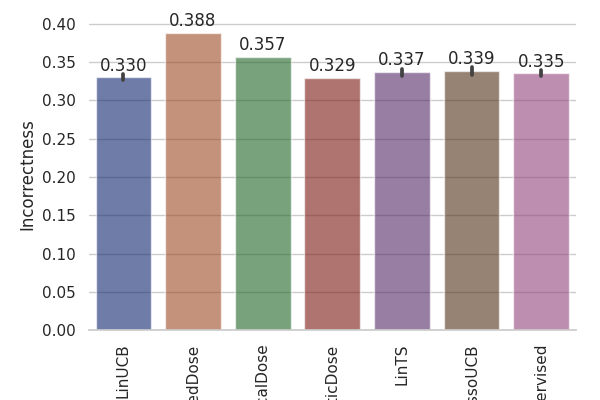
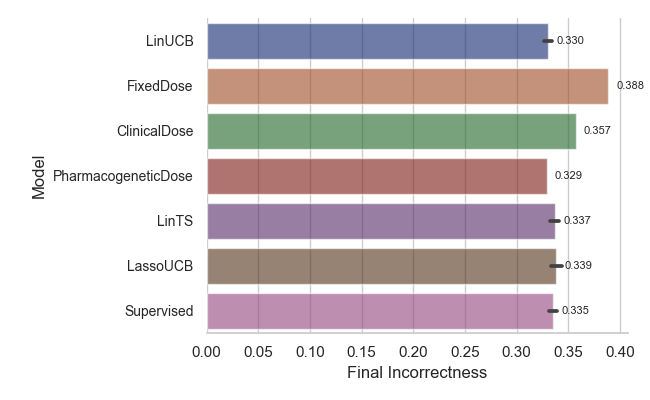
modify final incorrectness bar chart

diff --git a/plot_from_results.py b/plot_from_results.py
@@ -76,19 +76,20 @@ def plot_final_bar(plt_df, y, save_path='figures/'):
     g = sns.catplot(
         data=plt_df,
         kind="bar",
-        x='Model', 
-        y=y, 
+        y='Model', 
+        x=y, 
         errorbar="sd", 
-        palette="dark", 
+        palette="dark",
+        orient='h',
         alpha=.6, 
         height=4, 
-        aspect=6/4
+        aspect=6.5/4
     )
     g.despine(left=True)
-    g.set_axis_labels("Model", "Incorrectness")
-    g.set_xticklabels(rotation=90)
+    g.set_axis_labels("Final Incorrectness", "Model")
+    g.set_yticklabels(size=10)
     for container in g.ax.containers:
-        g.ax.bar_label(container, fmt='%.3f', padding=2) 
+        g.ax.bar_label(container, fmt='%.3f', padding=6, fontsize=8) 
     plt.savefig(save_path)
     plt.close()
 
